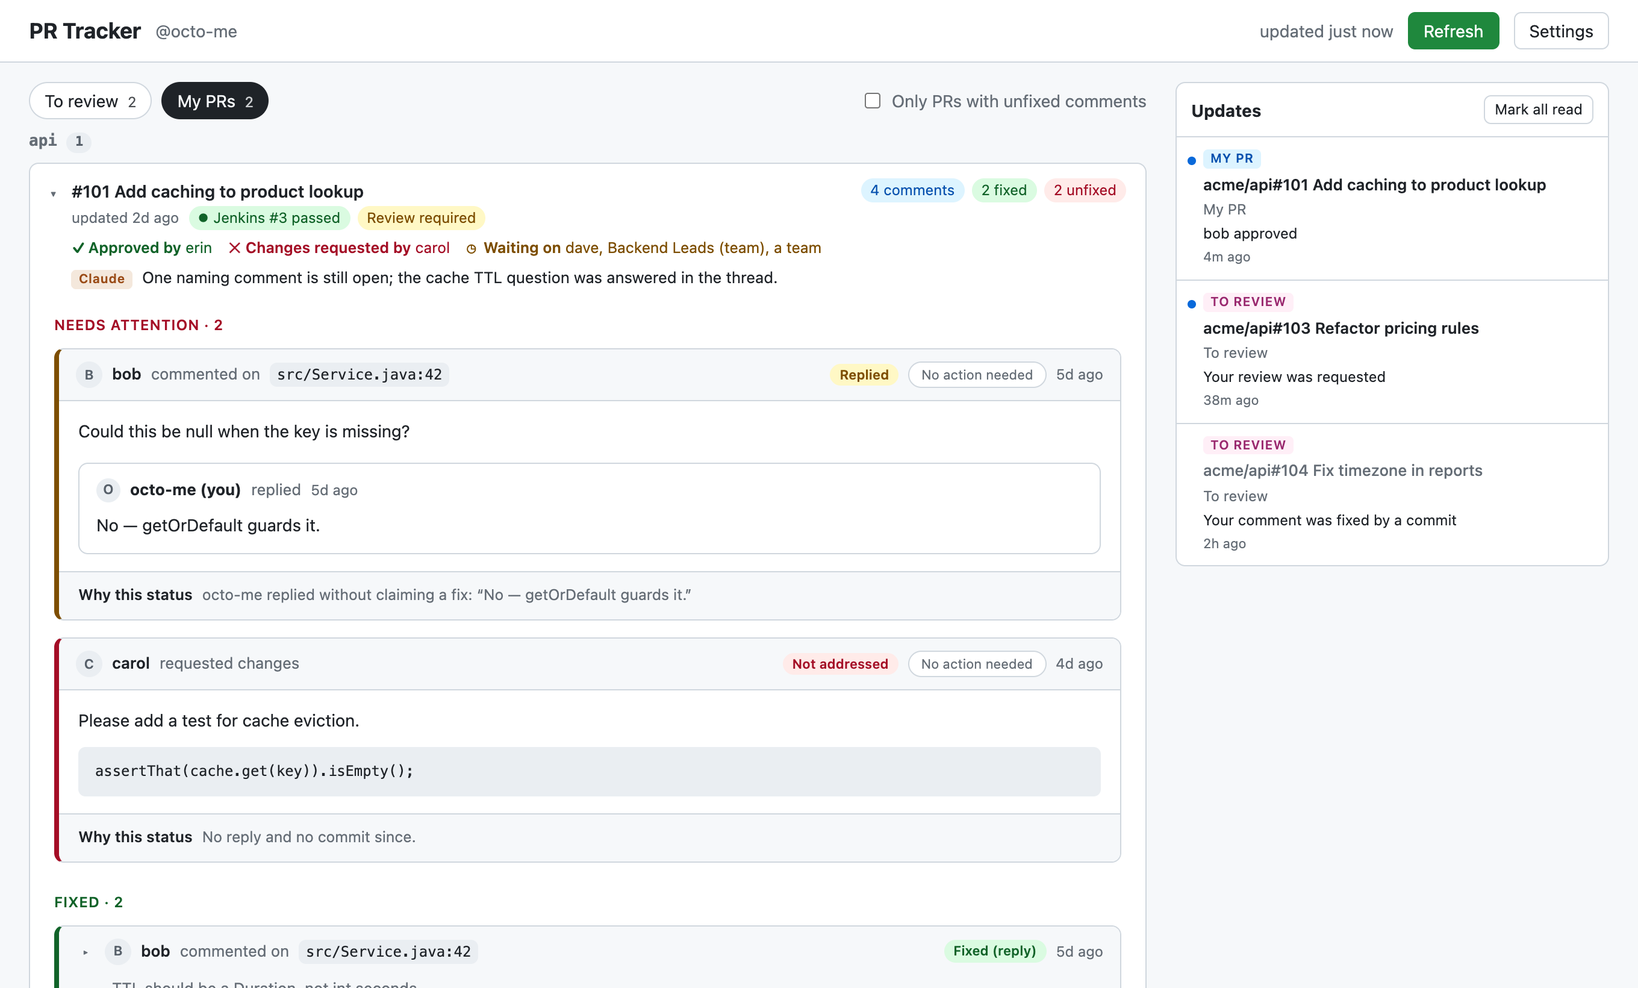
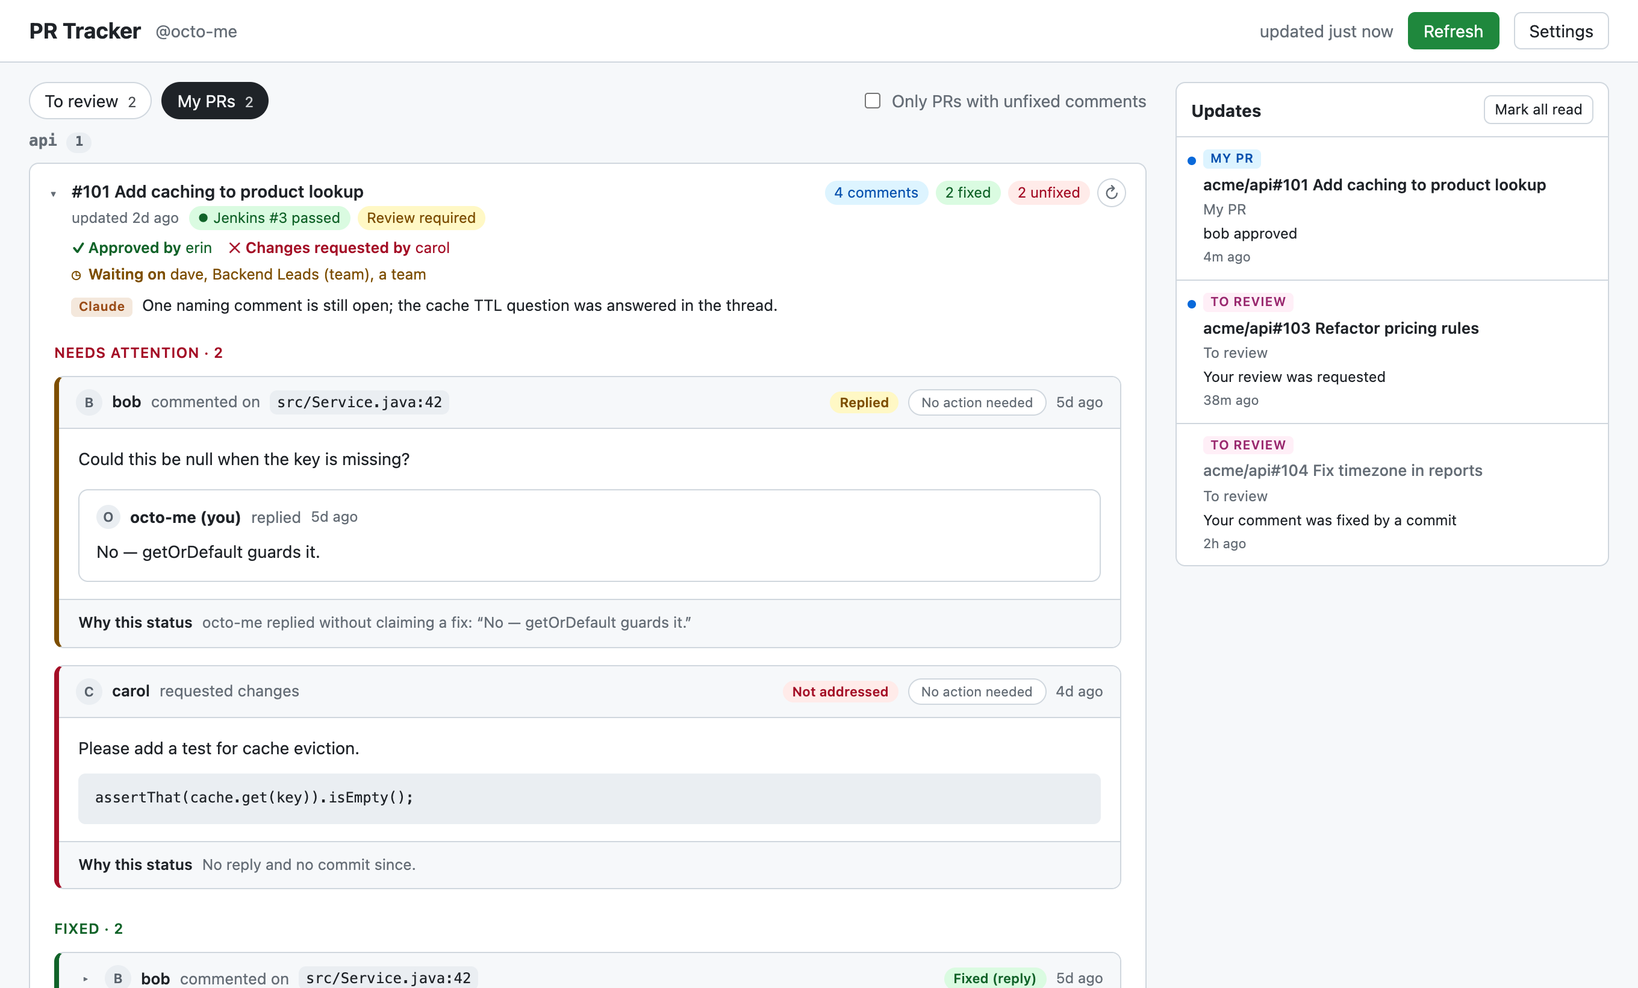
v0.5.0: refresh one PR from its card, mark one update read
- ↻ on each card fetches just that PR (node query, retried like the
  lists), re-adds its Jenkins build, Claude Code sessions and stored
  Claude answer, and keeps review-requested/watched flags; a merged or
  closed PR leaves the list with a note.
- ✓ on an Updates entry marks it read without opening it.

diff --git a/lib/refresh.js b/lib/refresh.js
@@ -1,4 +1,5 @@
-import { fetchDashboard } from './github.js'
+import { analyzePR } from './analyze.js'
+import { fetchDashboard, fetchPR } from './github.js'
 import { applyJudgement, CLAUDE_ORIGIN, describePR, judgePR, judgePRLocal, signature } from './claude.js'
 import { fetchJenkinsBuild, fetchJenkinsFolders, mapLimit } from './jenkins.js'
 import { prKey } from './sessions.js'
@@ -257,6 +258,98 @@ export async function judgeOnePR(prId, deps) {
   const judge = (/** @type {any} */ p) => (p.id === prId ? applyJudgement(p, result.judgement) : p)
   await saveSnapshot({ ...snapshot, mine: snapshot.mine.map(judge), toReview: snapshot.toReview.map(judge) }, deps.area)
   return { kind: 'ok' }
+}
+
+/**
+ * Still waiting on my review? A request to me by name counts; a team request
+ * counts only if the PR was already listed as requested (GitHub doesn't say
+ * which teams I'm in).
+ *
+ * @param {any} node  the fresh PR from GitHub
+ * @param {string} viewer
+ * @param {boolean} wasRequested
+ */
+export function stillRequested(node, viewer, wasRequested) {
+  const who = (node.reviewRequests?.nodes ?? []).map((/** @type {any} */ n) => n?.requestedReviewer)
+  if (who.some((/** @type {any} */ r) => r?.__typename === 'User' && r.login === viewer)) return true
+  return wasRequested && who.some((/** @type {any} */ r) => !r || r.__typename === 'Team')
+}
+
+/**
+ * A card's own Refresh: fetch that one PR again and put it back in place,
+ * with its Jenkins build, Claude Code sessions and any Claude answer. A PR
+ * that was merged or closed meanwhile leaves the list, with a note.
+ *
+ * @param {string} prId
+ * @param {RefreshDeps} [deps]
+ * @returns {Promise<{kind: 'ok' | 'merged' | 'closed' | 'gone' | 'error', message?: string}>}
+ */
+export async function refreshOnePR(prId, deps = {}) {
+  const settings = await loadSettings(deps.area)
+  const snapshot = await loadSnapshot(deps.area)
+  const old = snapshot && [...snapshot.mine, ...snapshot.toReview].find((p) => p.id === prId)
+  if (!snapshot || !old) return { kind: 'gone' }
+  let got
+  try {
+    got = await fetchPR({ token: settings.token, id: prId, fetchImpl: deps.fetchImpl, retryDelays: deps.retryDelays })
+  } catch (error) {
+    return { kind: 'error', message: error instanceof Error ? error.message : String(error) }
+  }
+  const drop = (/** @type {{id: string}[]} */ list) => list.filter((p) => p.id !== prId)
+  if (!got.node || got.node.state !== 'OPEN') {
+    const kind = got.node?.state === 'MERGED' ? 'merged' : got.node?.state === 'CLOSED' ? 'closed' : 'gone'
+    const note = `${old.repo}#${old.number} was ${kind === 'gone' ? 'not found (deleted, or hidden from your token)' : kind}; removed from the list.`
+    await saveSnapshot({ ...snapshot, mine: /** @type {any} */ (drop(snapshot.mine)), toReview: /** @type {any} */ (drop(snapshot.toReview)), warnings: [...(snapshot.warnings ?? []), note] }, deps.area)
+    return { kind }
+  }
+
+  let fresh = analyzePR(got.node, { extraBots: settings.extraBots })
+  if (skipsJenkins(fresh)) fresh.build = null
+  /** @type {import('./github.js').Snapshot} */
+  const one = { ...snapshot, mine: [fresh], toReview: [], warnings: [] }
+  const jenkins = settings.jenkinsUser && settings.jenkinsToken ? { user: settings.jenkinsUser, token: settings.jenkinsToken } : null
+  await addJenkinsBuilds(one, JENKINS_TEMPLATE, deps, jenkins)
+  await addLocalSessions(one, deps)
+  fresh = one.mine[0]
+  const claude = claudeAuth(settings)
+  if (claude && fresh.hasHumanComments) fresh = await withClaudeAnswer(fresh, claude, deps, settings.claudeAuto)
+
+  const viewer = got.viewer || snapshot.viewer
+  const next = {
+    ...snapshot,
+    mine: snapshot.mine.map((p) => (p.id === prId ? fresh : p)),
+    toReview: snapshot.toReview.map((p) => {
+      if (p.id !== prId) return p
+      const requested = stillRequested(got.node, viewer, !!p.requested)
+      return { ...fresh, requested, ...(p.watched && !requested ? { watched: true } : {}) }
+    }),
+  }
+  await saveSnapshot(next, deps.area)
+  return { kind: 'ok' }
+}
+
+/**
+ * The stored Claude answer for this PR (flagged outdated if the PR changed),
+ * or — with automatic asking on — a new one for a changed PR.
+ *
+ * @param {import('./analyze.js').PRSummary} pr
+ * @param {import('./claude.js').ClaudeAuth} auth
+ * @param {RefreshDeps} deps
+ * @param {boolean} auto
+ */
+async function withClaudeAnswer(pr, auth, deps, auto) {
+  const cache = await loadClaudeCache(deps.area)
+  const sig = signature(describePR(pr), auth.model)
+  const hit = cache[pr.id]
+  if (hit?.sig === sig) return applyJudgement(pr, hit.judgement)
+  if (auto && !(await claudeBlocked(auth, deps))) {
+    const result = await judgeWith(pr, auth, deps)
+    if (result.kind === 'ok') {
+      await saveClaudeCache({ ...(await loadClaudeCache(deps.area)), [pr.id]: { sig, at: new Date().toISOString(), judgement: result.judgement } }, deps.area)
+      return applyJudgement(pr, result.judgement)
+    }
+  }
+  return hit ? { ...applyJudgement(pr, hit.judgement), aiStale: true } : pr
 }
 
 /** Badge text: review-requested PRs still waiting. */

diff --git a/tests/refresh.test.js b/tests/refresh.test.js
@@ -1,0 +1,77 @@
+import assert from 'node:assert/strict'
+import { readFileSync } from 'node:fs'
+import { describe, it } from 'node:test'
+
+import { refresh, refreshOnePR, stillRequested } from '../lib/refresh.js'
+
+const fixture = JSON.parse(readFileSync(new URL('./fixtures/dashboard.json', import.meta.url), 'utf8'))
+
+const memory = () => {
+  /** @type {Record<string, unknown>} */ const data = {}
+  return { data, get: async (/** @type {string} */ k) => ({ [k]: data[k] }), set: async (/** @type {Record<string, unknown>} */ o) => void Object.assign(data, o) }
+}
+
+/** GitHub stand-in: the fixture for list searches, `one` for a single-PR query. @param {(id: string) => any} one @param {any[]} [seen] */
+const github = (one, seen = []) =>
+  /** @type {typeof fetch} */ (
+    async (_url, init) => {
+      const body = JSON.parse(String(init?.body))
+      seen.push(body)
+      if (body.query.includes('node(id:')) return new Response(JSON.stringify({ data: { viewer: { login: 'octo-me' }, rateLimit: { remaining: 1, resetAt: '' }, node: one(body.variables.id) } }))
+      return new Response(JSON.stringify(fixture))
+    }
+  )
+
+/** A dashboard already refreshed once. */
+async function loaded(/** @type {typeof fetch} */ fetchImpl) {
+  const area = memory()
+  await area.set({ settings: { token: 't' } })
+  await refresh({ area, fetchImpl, retryDelays: [] })
+  return area
+}
+
+describe('refreshOnePR', () => {
+  const mine101 = fixture.data.mine.nodes[0]
+
+  it('re-fetches only that PR and puts it back in place', async () => {
+    /** @type {any[]} */ const seen = []
+    const area = await loaded(github(() => ({ ...mine101, state: 'OPEN', title: 'Add caching (v2)' }), seen))
+    const before = /** @type {any} */ (area.data.snapshot)
+    seen.length = 0
+    assert.deepEqual(await refreshOnePR(mine101.id, { area, fetchImpl: github(() => ({ ...mine101, state: 'OPEN', title: 'Add caching (v2)' }), seen), retryDelays: [] }), { kind: 'ok' })
+    assert.equal(seen.length, 1, 'one GraphQL request')
+    assert.deepEqual(seen[0].variables, { id: mine101.id })
+    const after = /** @type {any} */ (area.data.snapshot)
+    assert.equal(after.mine[0].title, 'Add caching (v2)')
+    assert.deepEqual(after.mine.map((/** @type {any} */ p) => p.id), before.mine.map((/** @type {any} */ p) => p.id), 'same order')
+    assert.deepEqual(after.toReview, before.toReview, 'other PRs untouched')
+  })
+
+  it('drops a merged PR with a note', async () => {
+    const area = await loaded(github(() => null))
+    assert.deepEqual(await refreshOnePR(mine101.id, { area, fetchImpl: github(() => ({ ...mine101, state: 'MERGED' })), retryDelays: [] }), { kind: 'merged' })
+    const after = /** @type {any} */ (area.data.snapshot)
+    assert.ok(!after.mine.some((/** @type {any} */ p) => p.id === mine101.id))
+    assert.match(after.warnings.at(-1), /#101 was merged; removed from the list/)
+  })
+
+  it('reports errors without touching the snapshot', async () => {
+    const area = await loaded(github(() => null))
+    const before = JSON.stringify(area.data.snapshot)
+    const failing = /** @type {typeof fetch} */ (async () => new Response('{}', { status: 502 }))
+    const r = await refreshOnePR(mine101.id, { area, fetchImpl: failing, retryDelays: [] })
+    assert.equal(r.kind, 'error')
+    assert.equal(JSON.stringify(area.data.snapshot), before)
+    assert.equal((await refreshOnePR('nope', { area, fetchImpl: failing, retryDelays: [] })).kind, 'gone')
+  })
+})
+
+describe('stillRequested', () => {
+  const req = (/** @type {any[]} */ reviewers) => ({ reviewRequests: { nodes: reviewers.map((r) => ({ requestedReviewer: r })) } })
+  it('by name, or through a team only if it was already requested', () => {
+    assert.equal(stillRequested(req([{ __typename: 'User', login: 'me' }]), 'me', false), true)
+    assert.equal(stillRequested(req([{ __typename: 'User', login: 'bob' }]), 'me', true), false, 'my review is in: no longer requested')
+    assert.equal(stillRequested(req([{ __typename: 'Team', slug: 'be' }]), 'me', true), true)
+    assert.equal(stillRequested(req([{ __typename: 'Team', slug: 'be' }]), 'me', false), false)
+  })
+})

diff --git a/lib/github.js b/lib/github.js
@@ -68,6 +68,15 @@ export function listQuery(alias) {
   ${PR_FIELDS}`
 }
 
+/** One PR by node id, for a card's own Refresh. `state` says whether it's still open. */
+export const PR_QUERY = `
+  query One($id: ID!) {
+    viewer { login }
+    rateLimit { remaining resetAt }
+    node(id: $id) { ... on PullRequest { state ...PR } }
+  }
+  ${PR_FIELDS}`
+
 export const SEARCHES = {
   mine: 'is:open is:pr author:@me archived:false sort:updated-desc',
   requested: 'is:open is:pr review-requested:@me archived:false sort:updated-desc',
@@ -160,9 +169,32 @@ export const RETRY_DELAYS = [1000, 3000]
  * @returns {Promise<{data: any, errors?: any[]}>}
  */
 async function fetchList(alias, q, token, fetchImpl, retryDelays) {
+  return withRetry(() => post(listQuery(alias), { [alias]: q }, token, fetchImpl), retryDelays)
+}
+
+/**
+ * Fetch one PR fresh. node is null when it's gone or hidden from the token.
+ *
+ * @param {{token: string, id: string, fetchImpl?: typeof fetch, retryDelays?: number[]}} options
+ * @returns {Promise<{viewer: string, node: any, errors?: any[]}>}
+ */
+export async function fetchPR({ token, id, fetchImpl = fetch, retryDelays = RETRY_DELAYS }) {
+  if (!token) throw new GitHubError('No GitHub token set. Open Settings and paste one.', 'auth')
+  const { data, errors } = await withRetry(() => post(PR_QUERY, { id }, token, fetchImpl), retryDelays)
+  return { viewer: data?.viewer?.login ?? '', node: data?.node?.id ? data.node : null, errors }
+}
+
+/**
+ * Retry GitHub timeouts and network errors, waiting retryDelays between tries.
+ * @template T
+ * @param {() => Promise<T>} run
+ * @param {number[]} retryDelays
+ * @returns {Promise<T>}
+ */
+async function withRetry(run, retryDelays) {
   for (let attempt = 0; ; attempt++) {
     try {
-      return await fetchOnce(alias, q, token, fetchImpl)
+      return await run()
     } catch (error) {
       const transient = error instanceof GitHubError && (error.kind === 'network' || /^GitHub API error 50[234]\b/.test(error.message))
       if (!transient || attempt >= retryDelays.length) throw error
@@ -171,14 +203,14 @@ async function fetchList(alias, q, token, fetchImpl, retryDelays) {
   }
 }
 
-/** @param {string} alias @param {string} q @param {string} token @param {typeof fetch} fetchImpl */
-async function fetchOnce(alias, q, token, fetchImpl) {
+/** @param {string} query @param {Record<string, unknown>} variables @param {string} token @param {typeof fetch} fetchImpl */
+async function post(query, variables, token, fetchImpl) {
   let response
   try {
     response = await fetchImpl(API_URL, {
       method: 'POST',
       headers: { Authorization: `Bearer ${token}`, 'Content-Type': 'application/json' },
-      body: JSON.stringify({ query: listQuery(alias), variables: { [alias]: q } }),
+      body: JSON.stringify({ query, variables }),
     })
   } catch (error) {
     throw new GitHubError(`Network error: ${String(error)}`, 'network')

diff --git a/docs/install.html b/docs/install.html
@@ -141,15 +141,15 @@
 
 <div class="wrap">
   <header>
-    <span class="eyebrow">Internal Chrome extension · v0.4.0</span>
+    <span class="eyebrow">Internal Chrome extension · v0.5.0</span>
     <h1>PR Tracker</h1>
     <p class="lede">One tab with your open pull requests and the ones waiting on your review, plus every comment from a real person (bots left out) and whether it's been fixed. You get a desktop alert when something changes.</p>
     <div class="actions">
-      <a class="btn" href="pr-tracker-0.4.0.zip" target="_blank" rel="noopener">
+      <a class="btn" href="pr-tracker-0.5.0.zip" target="_blank" rel="noopener">
         <svg viewBox="0 0 24 24" fill="none" stroke="currentColor" stroke-width="2" stroke-linecap="round" stroke-linejoin="round" aria-hidden="true"><path d="M12 3v12"/><path d="m7 10 5 5 5-5"/><path d="M5 21h14"/></svg>
-        Download pr-tracker-0.4.0.zip
+        Download pr-tracker-0.5.0.zip
       </a>
-      <span class="meta">81 KB · Chrome 116+ · github.com (+ optional Jenkins, Claude)</span>
+      <span class="meta">83 KB · Chrome 116+ · github.com (+ optional Jenkins, Claude)</span>
     </div>
     <p class="muted" style="font-size:.9rem">The zip sits next to this page. To share, send the whole folder (this page, <code>screenshot.png</code> and the zip) over Teams or a shared drive.</p>
   </header>
@@ -276,7 +276,7 @@
       <li><strong>On your PRs:</strong> a new comment, a reviewer replying again in a thread, the PR getting approved or getting changes requested, the Jenkins build failing (and passing again after a failure)</li>
       <li><strong>On PRs you review:</strong> a new review request, one of your comments getting fixed or answered</li>
     </ul>
-    <p class="muted">Every update is also listed in the <strong>Updates</strong> panel on the right side of PR Tracker, even with desktop alerts off. Clicking an alert or a panel entry opens that comment on GitHub. If more than four things change at once, you get one summary instead. You can turn alerts off or change the refresh interval in Settings.</p>
+    <p class="muted">Every update is also listed in the <strong>Updates</strong> panel on the right side of PR Tracker, even with desktop alerts off. Clicking an alert or a panel entry opens that comment on GitHub; on hover, <strong>✓</strong> marks an entry read and <strong>×</strong> deletes it. To check one PR right away, click <strong>↻</strong> on its card instead of refreshing everything. If more than four things change at once, you get one summary instead. You can turn alerts off or change the refresh interval in Settings.</p>
     <div class="note"><p><strong>On macOS</strong>, allow Chrome to show notifications first: System Settings → Notifications → Google Chrome → Allow notifications. Without this, alerts silently don't appear.</p></div>
   </section>
 

diff --git a/pages/app.css b/pages/app.css
@@ -120,6 +120,7 @@ details.stale .pr { opacity: .8; }
 .title { font-weight: 600; color: var(--fg); overflow-wrap: anywhere; }
 .meta { display: flex; gap: 8px; flex-wrap: wrap; align-items: center; font-size: 12px; color: var(--muted); margin-top: 2px; }
 .chips, .tally { display: flex; gap: 6px; flex-wrap: wrap; }
+.tally { align-items: center; }
 .c-cc { background: #f4e8dc; color: #9a4b16; }
 .cc { font-size: 11px; padding: 1px 8px; border-radius: 999px; border: 0; background: #f4e8dc; color: #9a4b16; cursor: pointer; }
 .cc:disabled { cursor: default; opacity: .85; }
@@ -285,10 +286,19 @@ a.chip.build:hover { text-decoration: underline; }
 .inbox-list .i-side { justify-self: start; font-size: 10.5px; font-weight: 600; text-transform: uppercase; letter-spacing: .04em; padding: 0 6px; border-radius: 4px; margin-bottom: 2px; }
 .side-mine { background: var(--info-bg); color: var(--info-fg); }
 .side-toReview { background: var(--pink-bg); color: var(--pink-fg); }
-.i-remove { position: absolute; top: 6px; right: 6px; border: 0; background: none; color: var(--muted); font-size: 16px; line-height: 1; padding: 2px 6px; border-radius: 4px; opacity: 0; }
-.inbox-list li:hover .i-remove, .i-remove:focus-visible { opacity: 1; }
-.i-remove:hover { color: var(--fg); background: var(--gray-bg); }
-@media (hover: none) { .i-remove { opacity: 1; } }
+.i-remove, .i-read { position: absolute; top: 6px; right: 6px; border: 0; background: none; color: var(--muted); font-size: 16px; line-height: 1; padding: 2px 6px; border-radius: 4px; opacity: 0; }
+.i-read { right: 30px; font-size: 13px; padding: 3px 6px; }
+.inbox-list li:hover .i-remove, .i-remove:focus-visible, .inbox-list li:hover .i-read, .i-read:focus-visible { opacity: 1; }
+.i-remove:hover, .i-read:hover { color: var(--fg); background: var(--gray-bg); }
+.i-read:hover { color: var(--ok-fg); }
+@media (hover: none) { .i-remove, .i-read { opacity: 1; } }
+
+.pr-refresh { border: 1px solid var(--line); background: var(--card); color: var(--muted); border-radius: 999px; width: 24px; height: 24px; padding: 0; font-size: 14px; line-height: 1; cursor: pointer; }
+.pr-refresh:hover { color: var(--fg); background: var(--gray-bg); }
+.pr-refresh:disabled { cursor: progress; }
+.pr-refresh.spinning { animation: pr-spin 0.8s linear infinite; }
+@keyframes pr-spin { to { transform: rotate(360deg); } }
+@media (prefers-reduced-motion: reduce) { .pr-refresh.spinning { animation: none; opacity: 0.5; } }
 .inbox-list li:last-child { border-bottom: 0; }
 .inbox-list a { display: grid; gap: 2px; padding: 10px 32px 10px 22px; color: var(--fg); text-decoration: none; position: relative; }
 .inbox-list a:hover { background: var(--bg); }

diff --git a/pages/app.js b/pages/app.js
@@ -2,7 +2,7 @@ import { groupPRs, STALE_DAYS } from '../lib/group.js'
 import { renderComment } from './markdown.js'
 import { markRead, normaliseInbox, removeItem, unreadCount } from '../lib/inbox.js'
 import { applyOverrides, toggleOverride } from '../lib/overrides.js'
-import { judgeOnePR, refresh } from '../lib/refresh.js'
+import { judgeOnePR, refresh, refreshOnePR } from '../lib/refresh.js'
 import { shortLogin } from '../lib/notify.js'
 import { JENKINS_HIDDEN } from '../lib/github.js'
 import { CLAUDE_ORIGIN, keyProblem } from '../lib/claude.js'
@@ -513,7 +513,33 @@ function renderPR(pr, viewer, showRepo) {
       list.append(renderFinding(f, viewer))
     }
   }
+  tally.append(refreshButton(pr))
   return el
+}
+
+/** ↻ on a card: fetch just this PR again. @param {ReviewPR} pr */
+function refreshButton(pr) {
+  const btn = document.createElement('button')
+  btn.type = 'button'
+  btn.className = 'pr-refresh'
+  btn.textContent = '↻'
+  btn.title = 'Refresh this PR'
+  btn.setAttribute('aria-label', `Refresh #${pr.number}`)
+  btn.addEventListener('click', async (event) => {
+    event.preventDefault() // inside <summary>: don't toggle the card
+    event.stopPropagation()
+    btn.disabled = true
+    btn.classList.add('spinning')
+    const result = await refreshOnePR(pr.id, { jenkinsAllowed, claudeAllowed: jenkinsAllowed, localSessions, claudeCode })
+    // On success the stored snapshot changes and the page repaints this card.
+    if (result.kind === 'error') {
+      btn.disabled = false
+      btn.classList.remove('spinning')
+      btn.title = `Couldn't refresh: ${result.message}`
+      showError(`Couldn't refresh #${pr.number}: ${result.message}`)
+    }
+  })
+  return btn
 }
 
 /** Hidden by the Watched repos filter? */
@@ -655,7 +681,19 @@ function paintInbox() {
       paintInbox()
       void saveInbox(state.inbox)
     })
-    li.append(a, remove)
+    const read = document.createElement('button')
+    read.type = 'button'
+    read.className = 'i-read'
+    read.textContent = '✓'
+    read.title = 'Mark as read'
+    read.setAttribute('aria-label', `Mark as read: ${item.title}`)
+    read.hidden = item.read
+    read.addEventListener('click', () => {
+      state.inbox = markRead(state.inbox, item.key)
+      paintInbox()
+      void saveInbox(state.inbox)
+    })
+    li.append(a, read, remove)
     list.append(li)
   }
   $('inbox-empty').hidden = state.inbox.length > 0

diff --git a/README.md b/README.md
@@ -68,6 +68,8 @@ Only the CI Jenkins (`jenkins-build-ci-2`) reports PR builds to GitHub. Deployme
 
 ### Layout
 
+**Refresh one PR:** the **↻** on each card fetches just that PR again (one small GraphQL request, under a second) — comments, approvals, Jenkins build, Claude Code sessions, and the stored Claude answer (marked outdated if the PR changed; asked anew only with *Ask automatically* on). A PR merged or closed meanwhile leaves the list with a note. Updates it brings (a new comment, an approval) reach the Updates panel and notifications like any refresh.
+
 **Watched repositories** (Settings, up to 20; a bare name means `gdncomm/…`, a github.com URL works too) add every open, non-draft PR in those repos that you didn't write to *To review*, labelled *Watched repo*, so you see them even when nobody requests your review. The **Watched repos** checkbox above the list (To review tab) hides or shows them; the choice is remembered. A PR where you're a requested reviewer, or that you already reviewed, keeps that label and is never hidden by this filter. A new PR in a repo that was already watched also raises a *New PR* update.
 
 Each tab is grouped by service (the repository name without `gdncomm/`). Order is "what needs me first": on *To review*, PRs you're on (review requested, or already reviewed by you) before PRs shown only because their repo is watched; then PRs carrying your own comments (your unfixed ones first; inside a PR your comments also lead each group); then PRs with unfixed comments, then PRs with comments (all fixed or no action needed), then PRs without human comments, newest update first within each. Groups follow their most urgent PR, except deployment repos (`prod-*`, `nonprod-*`), which always come after the services. Comments you mark *No action needed* stop counting as unfixed for sorting too. PRs with no activity for more than 7 days (GitHub's `updatedAt`: any push, comment or review) move to a collapsed **Stale** group at the bottom.
@@ -78,7 +80,7 @@ Each tab is grouped by service (the repository name without `gdncomm/`). Order i
 
 ### Updates panel
 
-Every detected update (below) is also kept in an **Updates** panel on the right: newest first, unread marked with a dot and counted in the header, last 100 kept. Clicking one opens it on GitHub and marks it read; *Mark all read* clears the count. Each update is tagged **My PR** or **To review** (desktop notifications say the same in their context line), and the **×** on hover deletes it. On windows narrower than 1100px the panel becomes a drawer behind the header's **Updates** button. The panel records updates even when desktop notifications are off.
+Every detected update (below) is also kept in an **Updates** panel on the right: newest first, unread marked with a dot and counted in the header, last 100 kept. Clicking one opens it on GitHub and marks it read; the **✓** on hover marks it read without opening it; *Mark all read* clears the count. Each update is tagged **My PR** or **To review** (desktop notifications say the same in their context line), and the **×** on hover deletes it. On windows narrower than 1100px the panel becomes a drawer behind the header's **Updates** button. The panel records updates even when desktop notifications are off.
 
 ### Notifications
 
